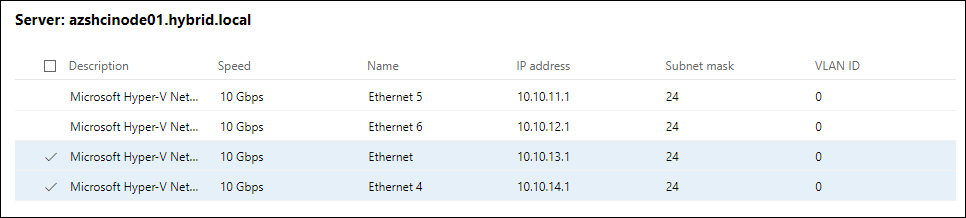
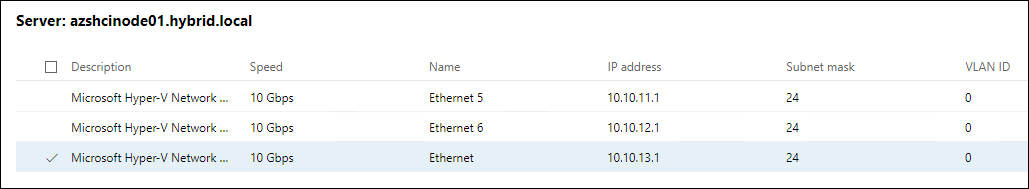
Added image

diff --git a/steps/2_DeployAzSHCI.md b/steps/2_DeployAzSHCI.md
@@ -114,7 +114,7 @@ Again, this is just one **example** network configuration for the simple purpose
 * **Create two virtual switches** - in this configuration, you can create separate vSwitches, each attached to different sets of underlying NICs.  This may be useful if you wish to dedicate a set of underlying NICs to VM traffic, and another set to storage traffic, but wish to have vNICs used for storage communication instead of the underlying NICs.
 * You also have a check-box for **Skip virtual switch creation** - if you want to define things later, that's fine too
 
-5. Select the **Create one virtual switch for compute only**, and select the NICs on each node with the **10.10.13.x and 10.10.14.x IP addresses**, then click **Next**
+1. Select the **Create one virtual switch for compute only**, and select the NIC on each node with the **10.10.13.x IP address**, then click **Next**
 
 ![Create single vSwitch for Compute in the Create Cluster wizard](/media/wac_compute_vswitch_ga.png "Create single vSwitch for Compute in the Create Cluster wizard")
 
